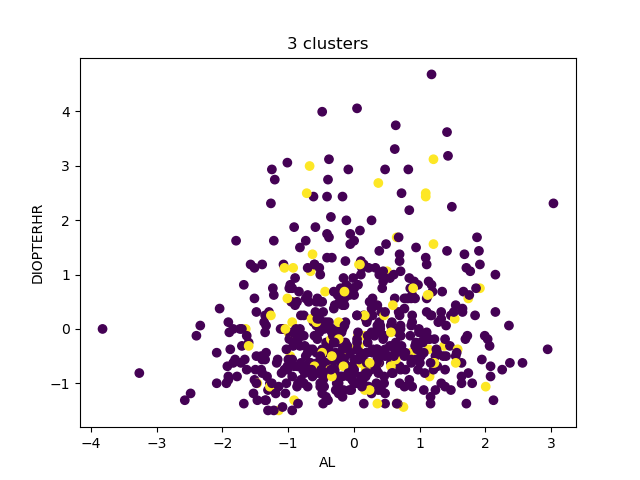
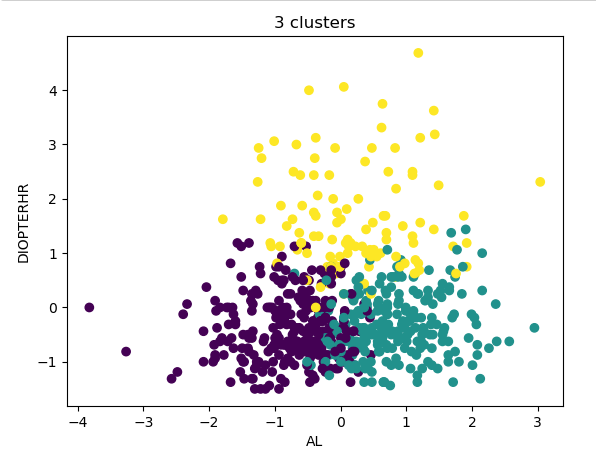
update README

diff --git a/README.md b/README.md
@@ -4,46 +4,60 @@
 
 ## **Purpose**
 
-You are on the data science team of a medical research company that’s interested in finding better ways to predict myopia, or nearsightedness. Your team has tried—and failed—to improve their classification model when training on the whole dataset. However, they believe that there might be distinct groups of patients that would be better to analyze separately. So, your supervisor has asked you to explore this possibility by using unsupervised learning.
+    You are on the data science team of a medical research company that’s interested in finding better ways to predict myopia, or nearsightedness. Your team has tried—and failed—to improve their classification model when training on the whole dataset. However, they believe that there might be distinct groups of patients that would be better to analyze separately. So, your supervisor has asked you to explore this possibility by using unsupervised learning.
 
-Clean the data and use unsupervised learning to determine whether the myopia patients can be grouped for further analysis.  
+    Clean the data and use unsupervised learning to determine whether the myopia patients can be grouped for further analysis.  
 
 ## **Process**
  
 ### ***Prepare Data***
-Follow Data Preparation Cheat Sheet below.
-check for nulls (full dataset - no nulls)
-check data types
-check for duplicates
-remove Myopic column (already clustered)
-remove mommy and dadmy cols (already at scale), scale, then replce mommy and dadmy cols 
+    The Myopia dataset contains diagnosis classification information (Myopic column) that was removed to use the dataset for unsupervised learning.  
+    Data was checked for categorical data, duplicates, and nulls. No cleaning required.
+    Data was scaled using Standard Scaler and saved to "MyopiaCleanData.csv".
 
 ### ***Reduce Dimensions***
-Use PCA to reduce dimensions while retaining 90% of the explained variance.
-    Data set reduced from 14 columns to 9 columns of data.
-Use t-SNE to further reduce dimensions with a learning rate of 35, then with a learning rate of 80.  Run each t-SNE analysis 5x to evaluate run to run variability.
-    Data set reduced from 9 columns to two features independent of learning rate.
-    Charted data varies from run to run, but seems to show two separate clusters of data.  These clusters do not correspond with the actual clinical diagnosis as represented in the "Myopic" column.
+    Scaled data dimensions were reduced from 14 to 9 using PCA while retaining 92% of the explained variance. 
+
+    The Scaled PCS reduced data dimensions were further reduced from 9 to 2 using t-SNE at two learning rates (35 and 80).  Each t-SNE analysis was run 5x to evaluate run to run variability. Charted data varies from run to run, but seems to show two separate clusters of data. 
+
 ### ***Cluster Analysis***
-Use an elbow curve to identify the best number of clusters.
-    Slight elbow at 3 clusters.
-Plot each column against each column for 3,4,5,6, and 7 clusters. 
-    Separation between clusters with DIOPTERHR, ACD, AL and LT.  Potential linear relationship between AL and VCD
-For final analysis: use 3 clusters and plot DIOPTERHR vs AL
+    Scaled data was evaluated using an elbow curve to identify the best number of clusters to use for analysis. There is a slight elbow at three clusters.
+
+    The K-means model was fit with n_clusters = 3 and random_state = 0 and the data was plotted for features "AL" and "DIOPTERHR".
 
 ## **Results**
-The PCA/t-SNE dimension reduction resulted in 
 
----
+### ***PCA t-SNE Dimension Reduction***
+<img src= "Resources/t-SNE_learn35.png" alt = 't-SNE 2D chart with two indistinct groups' width = '60%'>
+
+The PCA/t-SNE dimension reduction resulted in one large cluster and one small cluster in the 2D space.
+
+### ***K-means Cluster Analysis***
+<img src = 'Resources/KClusters_3.png' alt = 'K-means chart with three distinct clusters' width = '60%'>
+
+The K-means model (k=3) produced three visually distinct clusters.
 
 ## **Conclusion**
 
-<p></p>
-<p></p>
+    The myopia patient data can be grouped using PCA/t-SNE or K-means for further analysis.
+
+
+## **Today I learned**
+    Even though the data can be grouped for further analysis, these groupings do not correspond with the actual clinical diagnosis as listed in the "Myopic" column from the original data (represented by yellow and purple in the charts below).  
+
+### ***PCA t-SNE Dimension Reduction colored by Myopic diagnosis***
+<img src= "Resources/t-SNE_learn35_myopic.png" alt = 't-SNE 2D chart colored by myopic classification. Myopic data is not separated in 2D space.' width = '60%'>
+
+t-SNE is a dimension reduction tool to allow for visualization of multi-dimensional data in 2D or 3D and is not a classification tool.  
+
+### ***K-means Cluster Analysis colored by Myopic diagnosis***
+<img src = 'Resources/KClusters_3_myopic.png' alt = 'K-means cluster chart colored by myopic classification.  Myopic data is evenly separated throughout the three groups.' width = '60%'>
+
+K-means is a clustering tool that maximizes between-cluster distances and is not a classification tool.
 
 ---
 
-## **Start a Data Preparation Cheat Sheet**
+# **Start a Data Preparation Cheat Sheet**
 Data Preparation Cheat Sheet
 1. check datatypes (numeric cols may have non-numeric info that needs to be removed, data types may need to be changed) 
     df.dtypes
